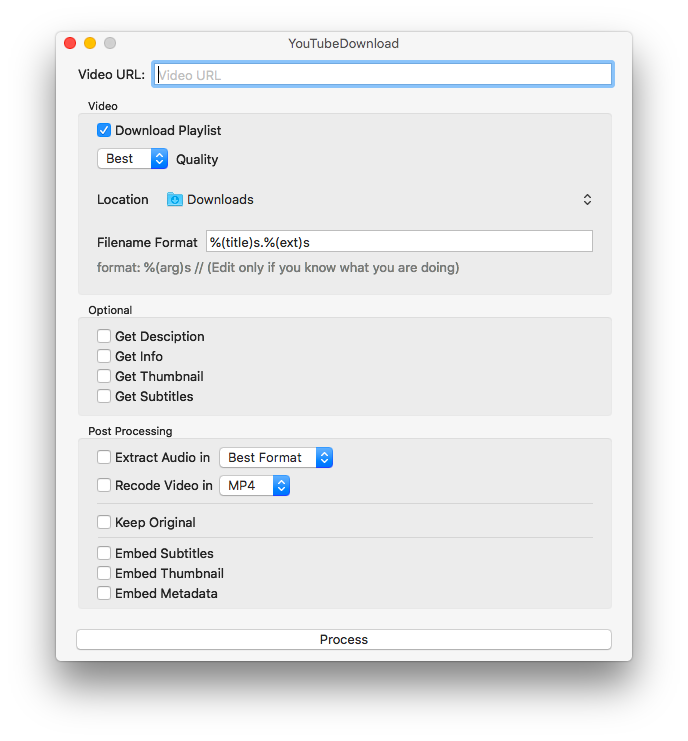
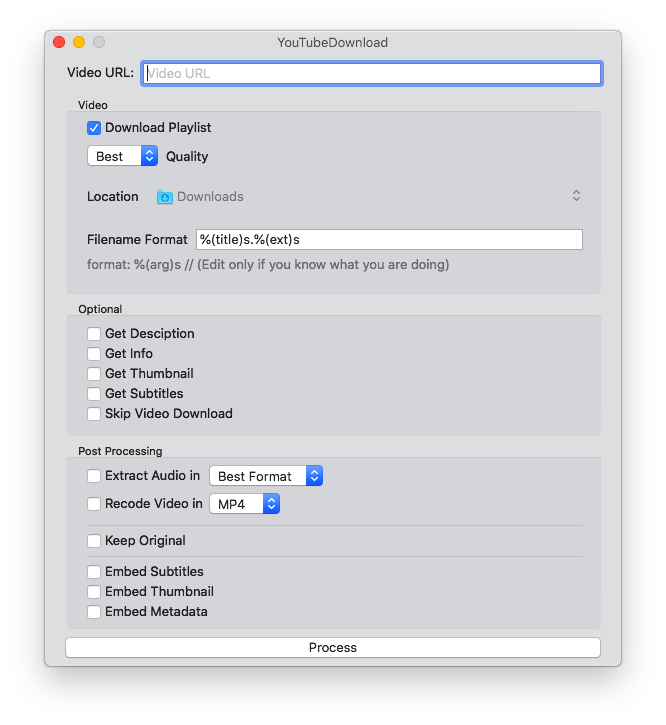
Updated for macOS Mojave

Changed region(s): [[0.0601, 0.0303, 0.9309, 0.9407]]

diff --git a/YoutubeDownload/ViewController.swift b/YoutubeDownload/ViewController.swift
@@ -34,6 +34,8 @@ class ViewController: NSViewController, NSOpenSavePanelDelegate {
     override func viewDidLoad() {
         super.viewDidLoad()
         
+        
+        
         self.audioFormatButton.removeAllItems()
         self.audioFormatButton.addItems(withTitles: ["Best Format", "AAC", "FLAC", "MP3", "M4A", "OPUS", "VORBIS", "WAV"])
         self.videoFormatButton.removeAllItems()

diff --git a/README.md b/README.md
@@ -10,4 +10,10 @@ Install it with `brew install ffmpeg`
 
 ## Screenshot
 
+### Light
 ![Screenshot of the App](screenshot.png)
+### Dark
+![Screenshot of the App in Dark Mode](screenshotdark.png)
+
+## Update 1.1
+- Now supports Dark Mode in macOS Mojave
